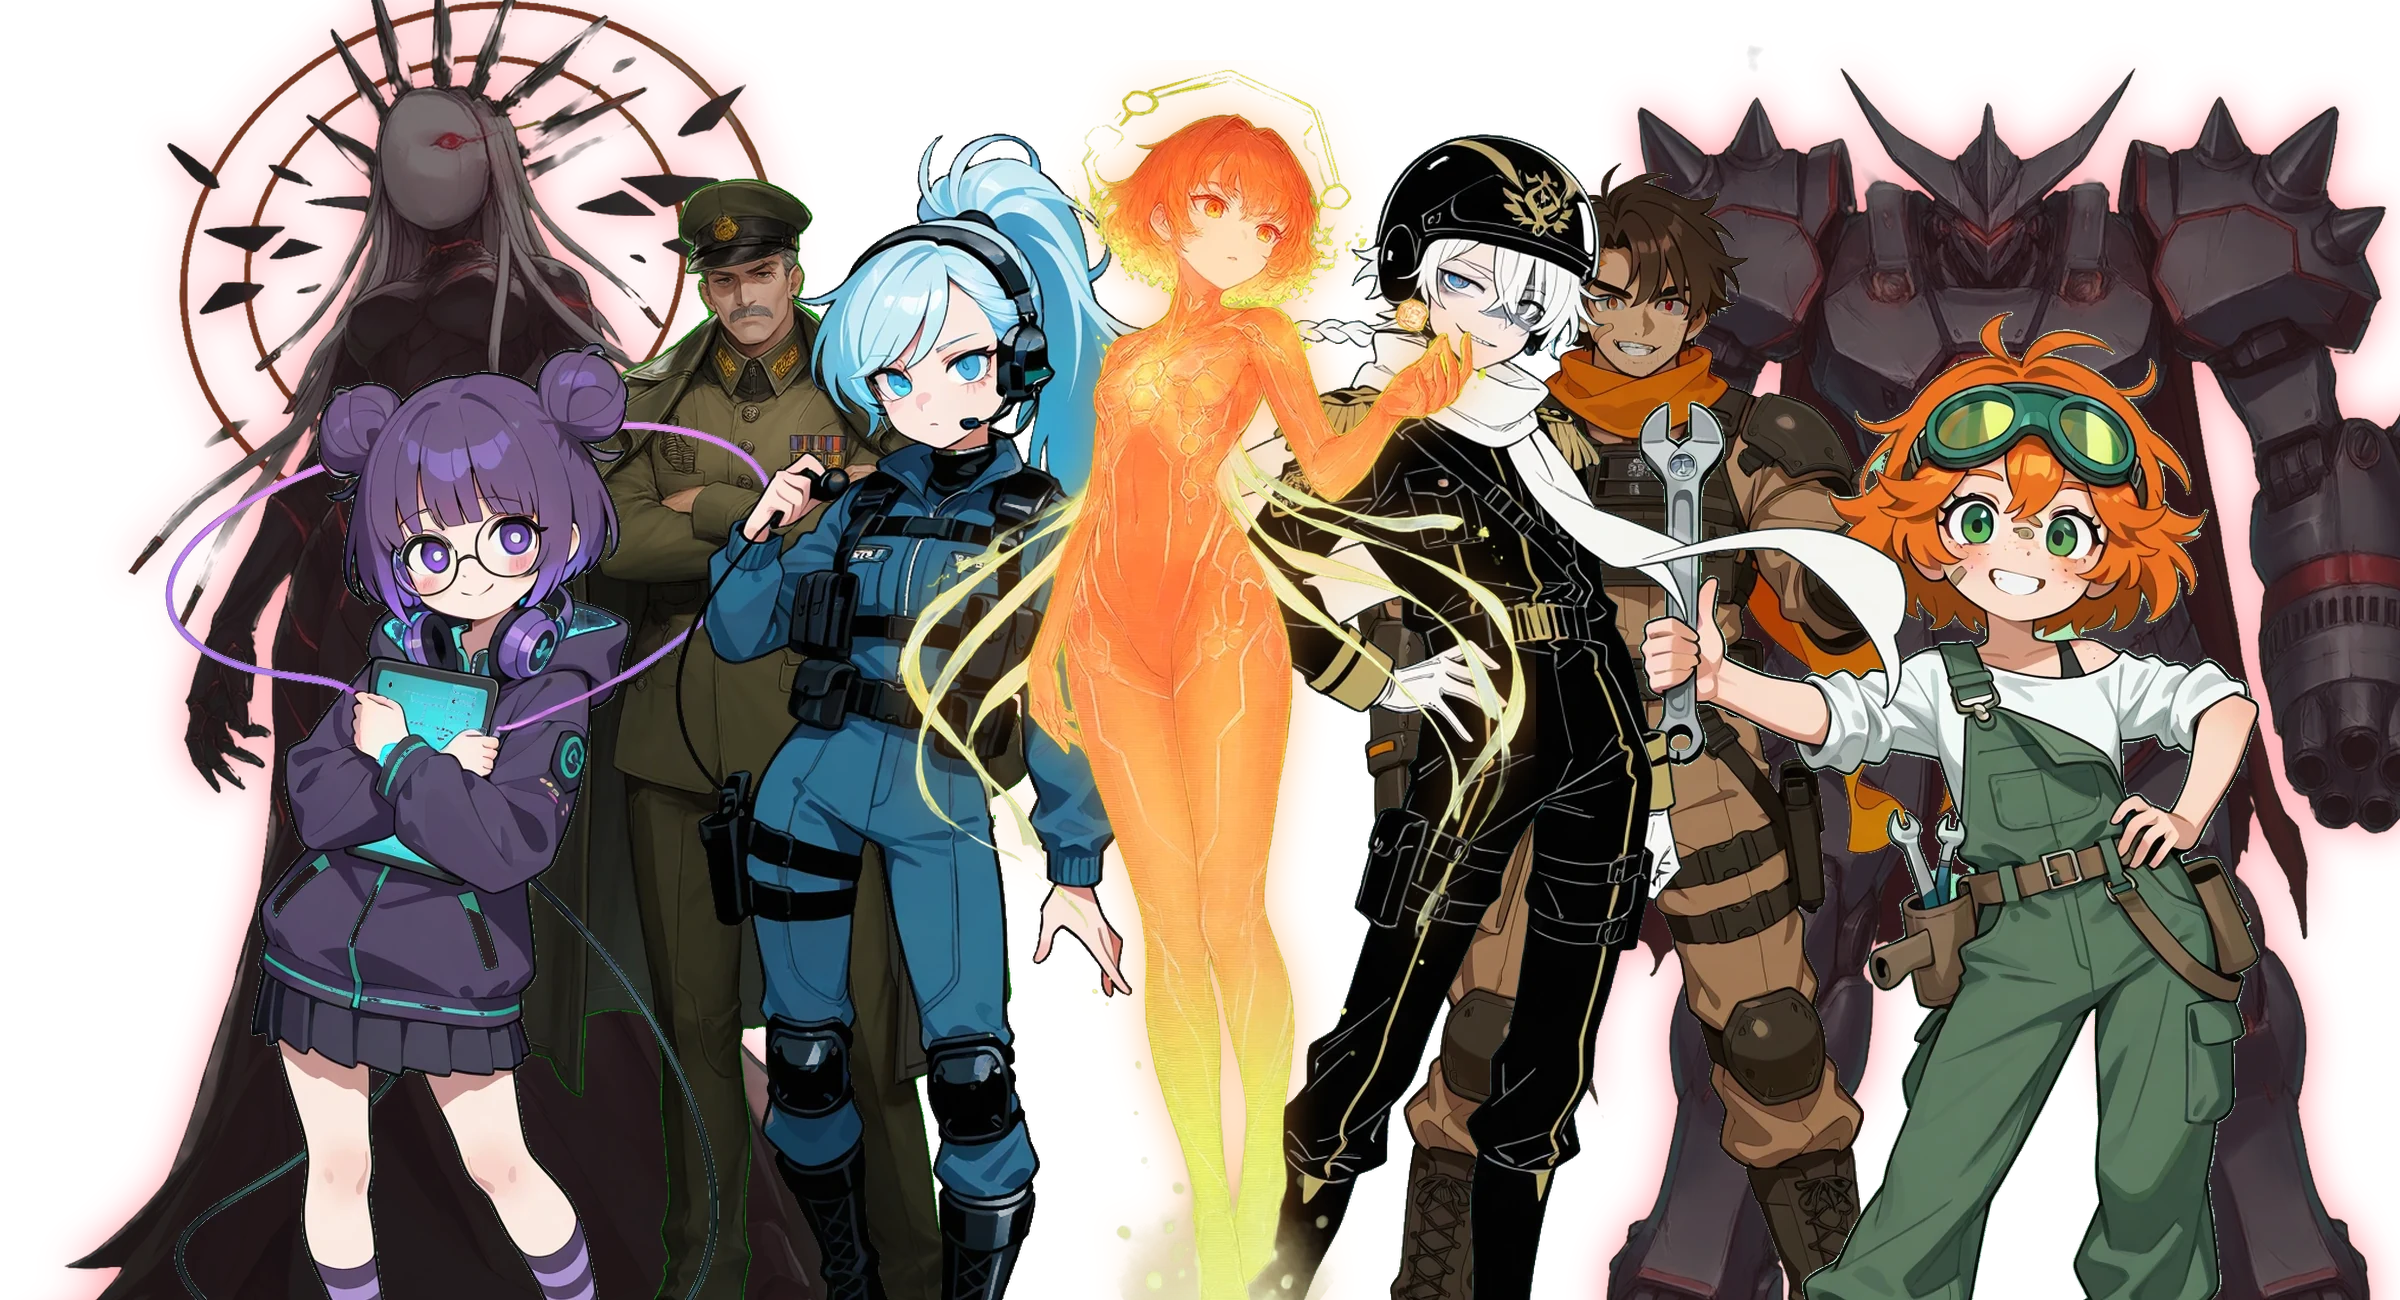
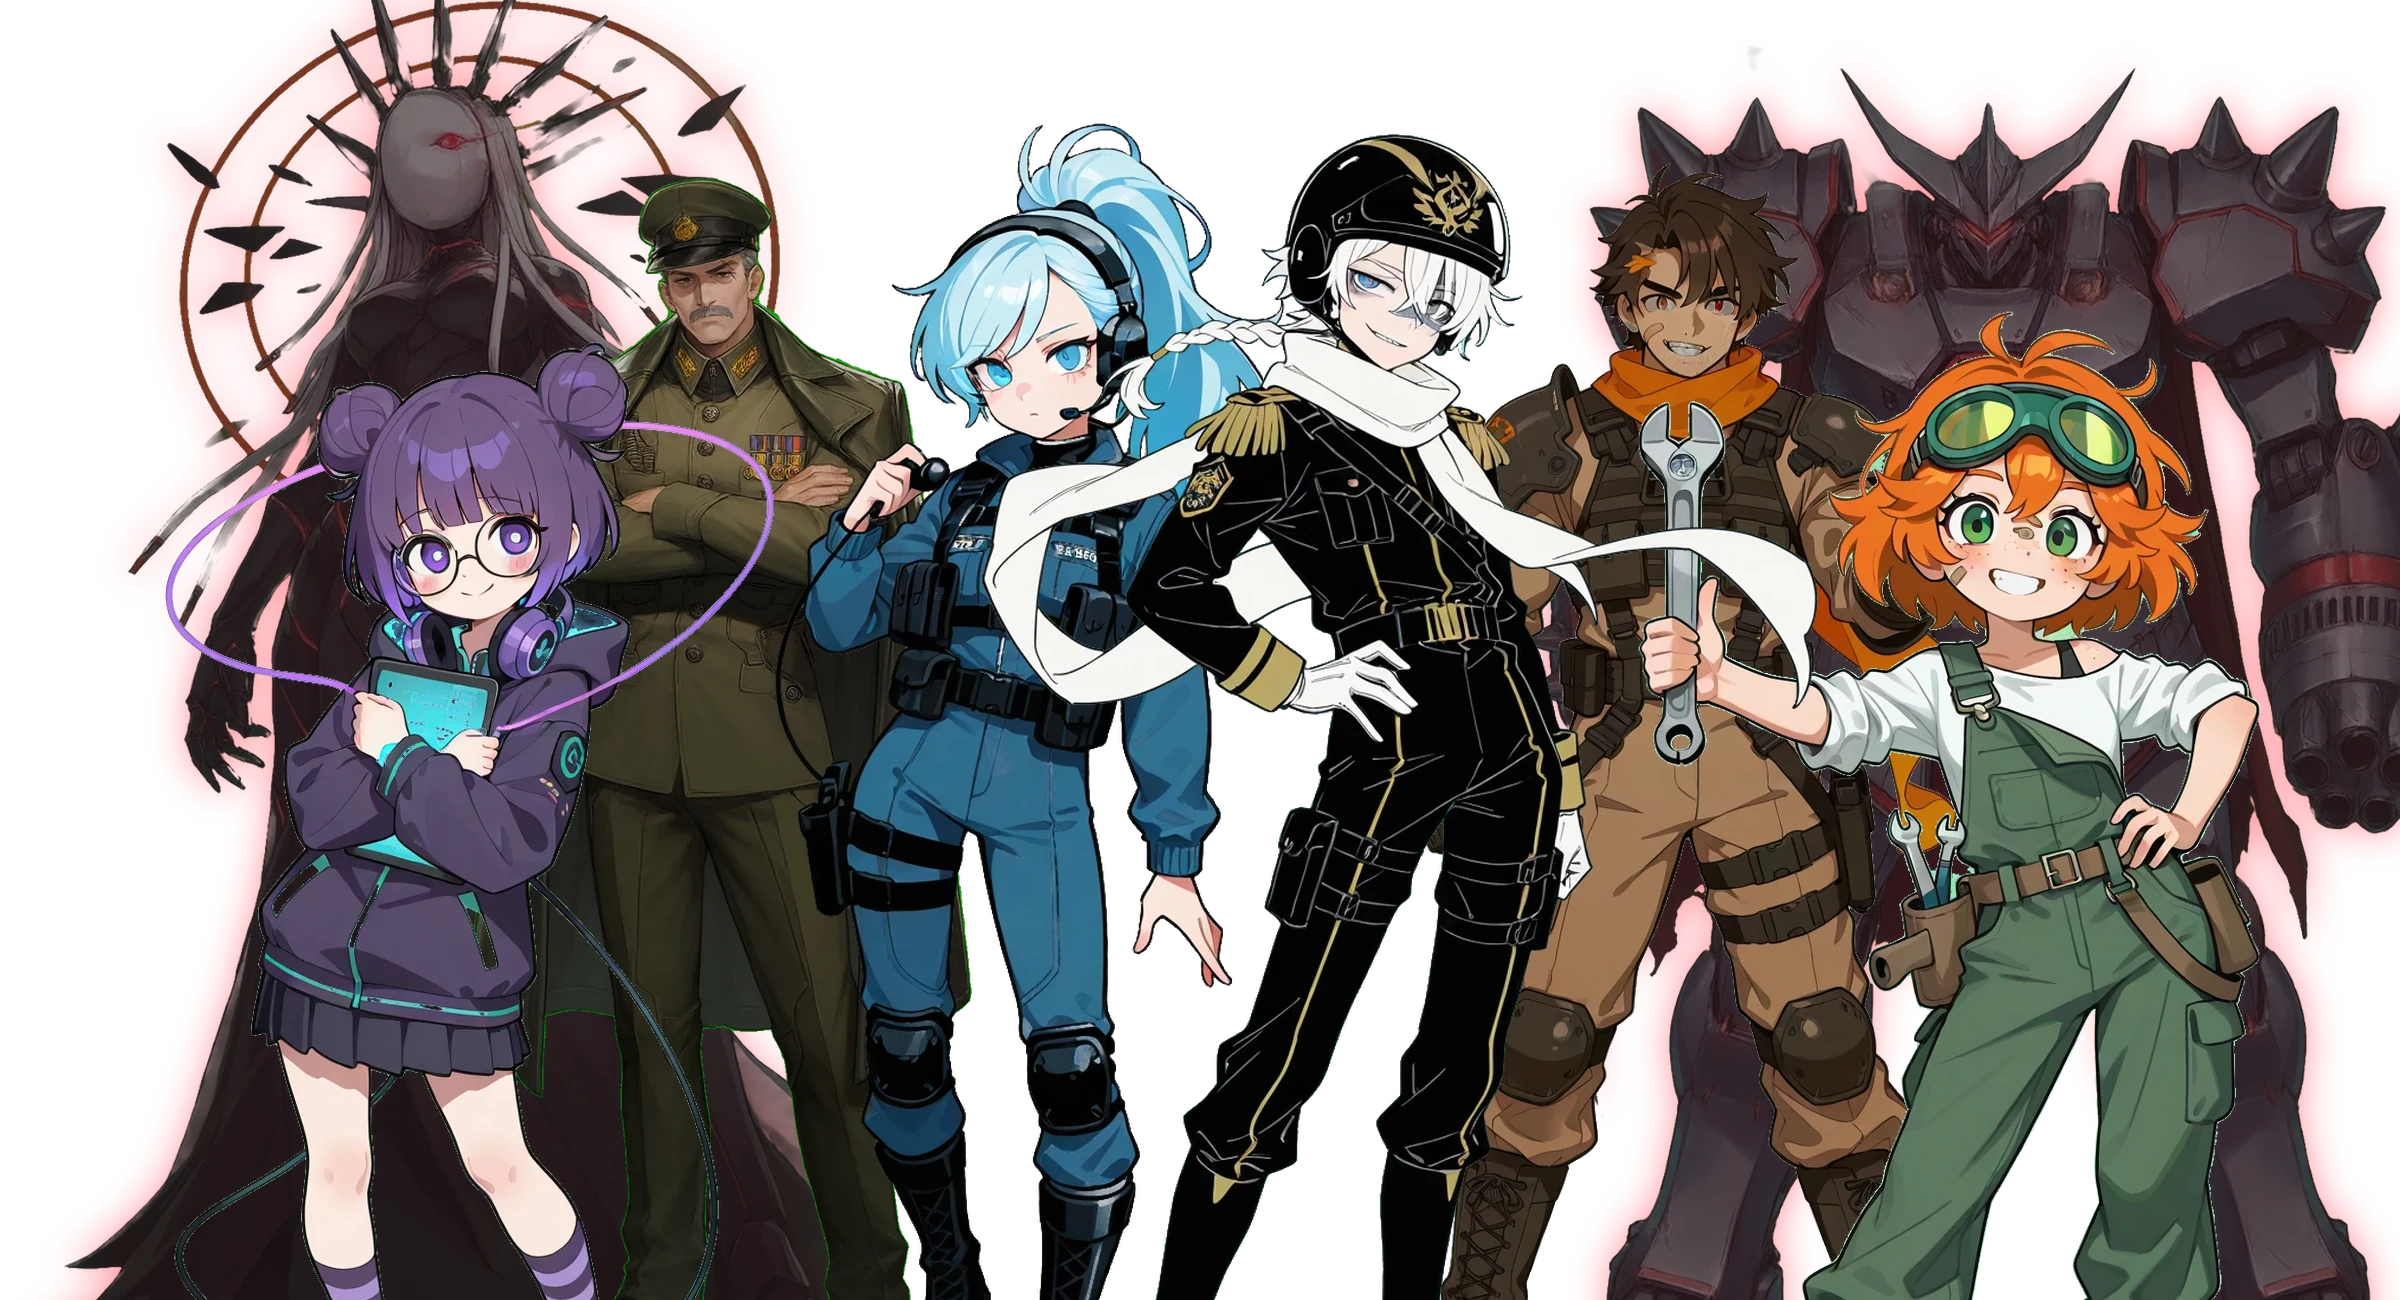
타이틀 키 아트에서 노을 제외, 인물 간격 재배치
Claude-Session: https://claude.ai/code/session_01GMufAFXbousiBdXPc2xv7S

diff --git a/tools/build-keyart.py b/tools/build-keyart.py
@@ -18,14 +18,13 @@ def put(id, cx, h, top, bright=1.0, alpha=1.0, flip=False, glow=None):
 put("eia", 430, 1500, -60, bright=0.42, alpha=0.9, glow=(255, 45, 61, 255))
 put("varga", 1990, 1420, 40, bright=0.42, alpha=0.9, flip=True, glow=(255, 45, 61, 255))
 # 가운데 줄
-put("kang", 760, 1250, 170, bright=0.78)
-put("bau", 1650, 1280, 150, bright=0.8, flip=True)
+put("kang", 720, 1250, 170, bright=0.78)
+put("bau", 1700, 1280, 150, bright=0.8, flip=True)
 # 앞줄
 put("yuri", 470, 1180, 330)
 put("moa", 1950, 1220, 300, flip=True)
-put("harin", 930, 1400, 120)
-put("doyun", 1490, 1400, 120)
-put("noeul", 1210, 1380, 60, glow=(255, 154, 58, 255))
+put("harin", 1030, 1400, 110)
+put("doyun", 1400, 1400, 120)
 cv.save("/home/user/korea-airspace/sim/img/title/keyart.webp", "WEBP", quality=88, method=6)
 prev = Image.open("/home/user/korea-airspace/sim/img/title/2-combat.jpg").convert("RGBA").resize((W, int(W * 9 / 16)))
 bg = Image.new("RGBA", (W, H)); bg.paste(prev.crop((0, 0, W, H)), (0, 0)); bg = Image.alpha_composite(bg, Image.new("RGBA", (W, H), (5, 8, 18, 150)))
